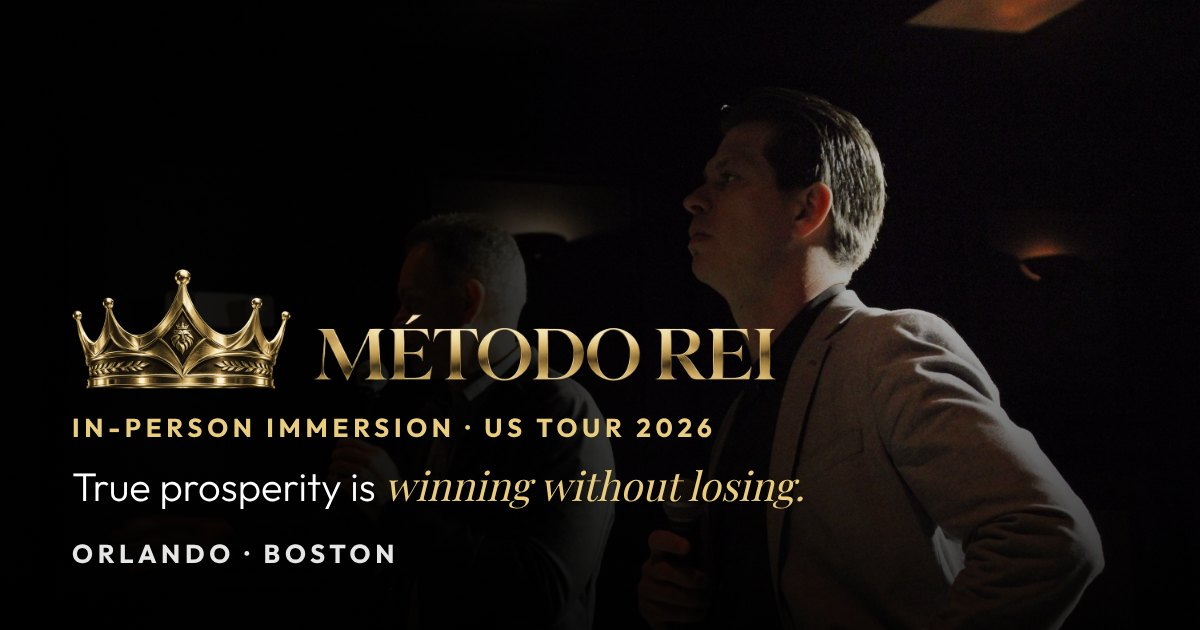
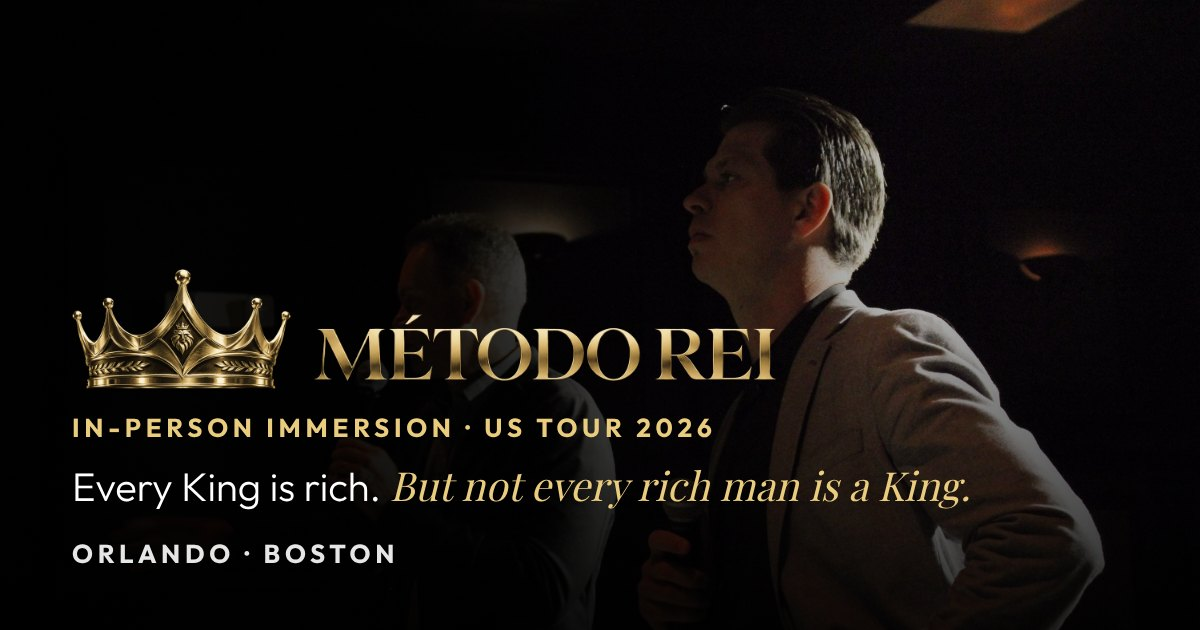
Remove "ganhar sem perder" do site (PT, EN, ES), do llms.txt e das imagens de compartilhamento
Claude-Session: https://claude.ai/code/session_01Uun9kg2pGjx4YM4RMmkCHm

Changed region(s): [[0.0617, 0.754, 0.8017, 0.8143]]

diff --git a/eventos/home-template.html b/eventos/home-template.html
@@ -165,7 +165,7 @@ src="https://www.facebook.com/tr?id=1643323880139413&ev=PageView&noscript=1"
     <div class="hero-in">
       <div class="kick">Imersão premium · Tour EUA {{ano}}</div>
       <h1 class="serif">Todo <span class="champ">Rei</span> é rico.<br><em>Mas nem todo<br>rico&nbsp;</em>é <span class="champ">Rei.</span></h1>
-      <p style="font-size: 20px; line-height: 1.6; font-weight: 300; max-width: 640px; margin: 28px auto 0; color: rgba(238,233,224,.86)">Uma imersão para homens e mulheres que desejam governar a própria vida, prosperar com propósito e construir um legado — <strong style="color: #fff; font-weight: 600">ganhar sem perder.</strong></p>
+      <p style="font-size: 20px; line-height: 1.6; font-weight: 300; max-width: 640px; margin: 28px auto 0; color: rgba(238,233,224,.86)">Uma imersão para homens e mulheres que desejam governar a própria vida, prosperar com propósito e construir um legado.</p>
       <div style="display: flex; gap: 12px; margin-top: 34px; flex-wrap: wrap; justify-content: center">
         <a class="btn btn-gold" href="#tour">Quero viver o Método REI</a>
         <button class="btn btn-line" type="button" id="videoOpen"><svg viewBox="0 0 24 24" width="16" height="16" fill="#E3C78A" aria-hidden="true"><path d="M7 4.5v15l12-7.5z"/></svg>Assistir ao vídeo</button>

diff --git a/es/index.html b/es/index.html
@@ -250,7 +250,7 @@ src="https://www.facebook.com/tr?id=1643323880139413&ev=PageView&noscript=1"
     <div class="hero-in">
       <div class="kick">Inmersión premium · Gira EE. UU. 2026</div>
       <h1 class="serif">Todo <span class="champ">Rey</span> es rico.<br><em>Pero no todo<br>rico&nbsp;</em>es <span class="champ">Rey.</span></h1>
-      <p style="font-size: 20px; line-height: 1.6; font-weight: 300; max-width: 640px; margin: 28px auto 0; color: rgba(238,233,224,.86)">Una inmersión para hombres y mujeres que desean gobernar su propia vida, prosperar con propósito y construir un legado — <strong style="color: #fff; font-weight: 600">ganar sin perder.</strong></p>
+      <p style="font-size: 20px; line-height: 1.6; font-weight: 300; max-width: 640px; margin: 28px auto 0; color: rgba(238,233,224,.86)">Una inmersión para hombres y mujeres que desean gobernar su propia vida, prosperar con propósito y construir un legado.</p>
       <div style="display: flex; gap: 12px; margin-top: 34px; flex-wrap: wrap; justify-content: center">
         <a class="btn btn-gold" href="#tour">Quiero vivir el Método REI</a>
         <button class="btn btn-line" type="button" id="videoOpen"><svg viewBox="0 0 24 24" width="16" height="16" fill="#E3C78A" aria-hidden="true"><path d="M7 4.5v15l12-7.5z"/></svg>Ver el video</button>

diff --git a/index.html b/index.html
@@ -250,7 +250,7 @@ src="https://www.facebook.com/tr?id=1643323880139413&ev=PageView&noscript=1"
     <div class="hero-in">
       <div class="kick">Imersão premium · Tour EUA 2026</div>
       <h1 class="serif">Todo <span class="champ">Rei</span> é rico.<br><em>Mas nem todo<br>rico&nbsp;</em>é <span class="champ">Rei.</span></h1>
-      <p style="font-size: 20px; line-height: 1.6; font-weight: 300; max-width: 640px; margin: 28px auto 0; color: rgba(238,233,224,.86)">Uma imersão para homens e mulheres que desejam governar a própria vida, prosperar com propósito e construir um legado — <strong style="color: #fff; font-weight: 600">ganhar sem perder.</strong></p>
+      <p style="font-size: 20px; line-height: 1.6; font-weight: 300; max-width: 640px; margin: 28px auto 0; color: rgba(238,233,224,.86)">Uma imersão para homens e mulheres que desejam governar a própria vida, prosperar com propósito e construir um legado.</p>
       <div style="display: flex; gap: 12px; margin-top: 34px; flex-wrap: wrap; justify-content: center">
         <a class="btn btn-gold" href="#tour">Quero viver o Método REI</a>
         <button class="btn btn-line" type="button" id="videoOpen"><svg viewBox="0 0 24 24" width="16" height="16" fill="#E3C78A" aria-hidden="true"><path d="M7 4.5v15l12-7.5z"/></svg>Assistir ao vídeo</button>

diff --git a/en/index.html b/en/index.html
@@ -250,7 +250,7 @@ src="https://www.facebook.com/tr?id=1643323880139413&ev=PageView&noscript=1"
     <div class="hero-in">
       <div class="kick">Premium immersion · US Tour 2026</div>
       <h1 class="serif">Every <span class="champ">King</span> is rich.<br><em>But not every<br>rich man&nbsp;</em>is a <span class="champ">King.</span></h1>
-      <p style="font-size: 20px; line-height: 1.6; font-weight: 300; max-width: 640px; margin: 28px auto 0; color: rgba(238,233,224,.86)">An immersion for men and women who want to govern their own lives, prosper with purpose and build a legacy — <strong style="color: #fff; font-weight: 600">win without losing.</strong></p>
+      <p style="font-size: 20px; line-height: 1.6; font-weight: 300; max-width: 640px; margin: 28px auto 0; color: rgba(238,233,224,.86)">An immersion for men and women who want to govern their own lives, prosper with purpose and build a legacy.</p>
       <div style="display: flex; gap: 12px; margin-top: 34px; flex-wrap: wrap; justify-content: center">
         <a class="btn btn-gold" href="#tour">I want to live Método REI</a>
         <button class="btn btn-line" type="button" id="videoOpen"><svg viewBox="0 0 24 24" width="16" height="16" fill="#E3C78A" aria-hidden="true"><path d="M7 4.5v15l12-7.5z"/></svg>Watch the video</button>

diff --git a/es/miami.html b/es/miami.html
@@ -926,7 +926,7 @@ src="https://www.facebook.com/tr?id=1643323880139413&ev=PageView&noscript=1"
       <h1 class="serif">Método REI<br><span class="champ">Miami</span></h1>
       <p class="serif ev-date">Viernes y Sábado · 23 y 24 de octubre de 2026</p>
       <div class="ev-venue"><a href="https://www.google.com/maps/search/?api=1&amp;query=Lagoinha+Miami+Church+295+NE+59th+Terrace+Miami+FL+33137" target="_blank" rel="noopener">295 NE 59th Terrace, Miami, FL</a></div>
-      <p style="font-size: 19px; line-height: 1.6; font-weight: 300; max-width: 620px; margin: 24px auto 0; color: rgba(238,233,224,.86)">Una inmersión para quienes desean gobernar su propia vida, prosperar con propósito y construir un legado — <strong style="color: #fff; font-weight: 600">ganar sin perder.</strong></p>
+      <p style="font-size: 19px; line-height: 1.6; font-weight: 300; max-width: 620px; margin: 24px auto 0; color: rgba(238,233,224,.86)">Una inmersión para quienes desean gobernar su propia vida, prosperar con propósito y construir un legado.</p>
       <div class="ev-offer">Desde US$14</div>
       <div style="display: flex; gap: 12px; margin-top: 16px; flex-wrap: wrap; justify-content: center">
         <a class="btn btn-gold" href="#ingressos">Ver entradas</a>

diff --git a/miami.html b/miami.html
@@ -926,7 +926,7 @@ src="https://www.facebook.com/tr?id=1643323880139413&ev=PageView&noscript=1"
       <h1 class="serif">Método REI<br><span class="champ">Miami</span></h1>
       <p class="serif ev-date">Sexta e Sábado · 23 e 24 de Outubro, 2026</p>
       <div class="ev-venue"><a href="https://www.google.com/maps/search/?api=1&amp;query=Lagoinha+Miami+Church+295+NE+59th+Terrace+Miami+FL+33137" target="_blank" rel="noopener">295 NE 59th Terrace, Miami, FL</a></div>
-      <p style="font-size: 19px; line-height: 1.6; font-weight: 300; max-width: 620px; margin: 24px auto 0; color: rgba(238,233,224,.86)">Uma imersão para quem deseja governar a própria vida, prosperar com propósito e construir um legado — <strong style="color: #fff; font-weight: 600">ganhar sem perder.</strong></p>
+      <p style="font-size: 19px; line-height: 1.6; font-weight: 300; max-width: 620px; margin: 24px auto 0; color: rgba(238,233,224,.86)">Uma imersão para quem deseja governar a própria vida, prosperar com propósito e construir um legado.</p>
       <div class="ev-offer">A partir de US$14</div>
       <div style="display: flex; gap: 12px; margin-top: 16px; flex-wrap: wrap; justify-content: center">
         <a class="btn btn-gold" href="#ingressos">Ver ingressos</a>

diff --git a/es/orlando.html b/es/orlando.html
@@ -952,7 +952,7 @@ src="https://www.facebook.com/tr?id=1643323880139413&ev=PageView&noscript=1"
       <h1 class="serif">Método REI<br><span class="champ">Orlando</span></h1>
       <p class="serif ev-date">Sábado · 21 de noviembre de 2026</p>
       <div class="ev-venue"><a href="https://www.google.com/maps/search/?api=1&amp;query=17800+Bali+Blvd+Winter+Garden+FL+34787" target="_blank" rel="noopener">17800 Bali Blvd, Winter Garden, FL 34787</a></div>
-      <p style="font-size: 19px; line-height: 1.6; font-weight: 300; max-width: 620px; margin: 24px auto 0; color: rgba(238,233,224,.86)">Una inmersión para quienes desean gobernar su propia vida, prosperar con propósito y construir un legado — <strong style="color: #fff; font-weight: 600">ganar sin perder.</strong></p>
+      <p style="font-size: 19px; line-height: 1.6; font-weight: 300; max-width: 620px; margin: 24px auto 0; color: rgba(238,233,224,.86)">Una inmersión para quienes desean gobernar su propia vida, prosperar con propósito y construir un legado.</p>
       <div class="ev-offer">Desde US$60</div>
       <div style="display: flex; gap: 12px; margin-top: 16px; flex-wrap: wrap; justify-content: center">
         <a class="btn btn-gold" href="#ingressos">Ver entradas</a>

diff --git a/en/miami.html b/en/miami.html
@@ -926,7 +926,7 @@ src="https://www.facebook.com/tr?id=1643323880139413&ev=PageView&noscript=1"
       <h1 class="serif">Método REI<br><span class="champ">Miami</span></h1>
       <p class="serif ev-date">Friday & Saturday · October 23–24, 2026</p>
       <div class="ev-venue"><a href="https://www.google.com/maps/search/?api=1&amp;query=Lagoinha+Miami+Church+295+NE+59th+Terrace+Miami+FL+33137" target="_blank" rel="noopener">295 NE 59th Terrace, Miami, FL</a></div>
-      <p style="font-size: 19px; line-height: 1.6; font-weight: 300; max-width: 620px; margin: 24px auto 0; color: rgba(238,233,224,.86)">An immersion for those who want to govern their own lives, prosper with purpose and build a legacy — <strong style="color: #fff; font-weight: 600">win without losing.</strong></p>
+      <p style="font-size: 19px; line-height: 1.6; font-weight: 300; max-width: 620px; margin: 24px auto 0; color: rgba(238,233,224,.86)">An immersion for those who want to govern their own lives, prosper with purpose and build a legacy.</p>
       <div class="ev-offer">From US$14</div>
       <div style="display: flex; gap: 12px; margin-top: 16px; flex-wrap: wrap; justify-content: center">
         <a class="btn btn-gold" href="#ingressos">See tickets</a>

diff --git a/orlando.html b/orlando.html
@@ -952,7 +952,7 @@ src="https://www.facebook.com/tr?id=1643323880139413&ev=PageView&noscript=1"
       <h1 class="serif">Método REI<br><span class="champ">Orlando</span></h1>
       <p class="serif ev-date">Sábado · 21 de Novembro, 2026</p>
       <div class="ev-venue"><a href="https://www.google.com/maps/search/?api=1&amp;query=17800+Bali+Blvd+Winter+Garden+FL+34787" target="_blank" rel="noopener">17800 Bali Blvd, Winter Garden, FL 34787</a></div>
-      <p style="font-size: 19px; line-height: 1.6; font-weight: 300; max-width: 620px; margin: 24px auto 0; color: rgba(238,233,224,.86)">Uma imersão para quem deseja governar a própria vida, prosperar com propósito e construir um legado — <strong style="color: #fff; font-weight: 600">ganhar sem perder.</strong></p>
+      <p style="font-size: 19px; line-height: 1.6; font-weight: 300; max-width: 620px; margin: 24px auto 0; color: rgba(238,233,224,.86)">Uma imersão para quem deseja governar a própria vida, prosperar com propósito e construir um legado.</p>
       <div class="ev-offer">A partir de US$60</div>
       <div style="display: flex; gap: 12px; margin-top: 16px; flex-wrap: wrap; justify-content: center">
         <a class="btn btn-gold" href="#ingressos">Ver ingressos</a>

diff --git a/en/orlando.html b/en/orlando.html
@@ -952,7 +952,7 @@ src="https://www.facebook.com/tr?id=1643323880139413&ev=PageView&noscript=1"
       <h1 class="serif">Método REI<br><span class="champ">Orlando</span></h1>
       <p class="serif ev-date">Saturday · November 21, 2026</p>
       <div class="ev-venue"><a href="https://www.google.com/maps/search/?api=1&amp;query=17800+Bali+Blvd+Winter+Garden+FL+34787" target="_blank" rel="noopener">17800 Bali Blvd, Winter Garden, FL 34787</a></div>
-      <p style="font-size: 19px; line-height: 1.6; font-weight: 300; max-width: 620px; margin: 24px auto 0; color: rgba(238,233,224,.86)">An immersion for those who want to govern their own lives, prosper with purpose and build a legacy — <strong style="color: #fff; font-weight: 600">win without losing.</strong></p>
+      <p style="font-size: 19px; line-height: 1.6; font-weight: 300; max-width: 620px; margin: 24px auto 0; color: rgba(238,233,224,.86)">An immersion for those who want to govern their own lives, prosper with purpose and build a legacy.</p>
       <div class="ev-offer">From US$60</div>
       <div style="display: flex; gap: 12px; margin-top: 16px; flex-wrap: wrap; justify-content: center">
         <a class="btn btn-gold" href="#ingressos">See tickets</a>

diff --git a/es/boston.html b/es/boston.html
@@ -930,7 +930,7 @@ src="https://www.facebook.com/tr?id=1643323880139413&ev=PageView&noscript=1"
       <h1 class="serif">Método REI<br><span class="champ">Boston</span></h1>
       <p class="serif ev-date">Viernes y Sábado · 4 y 5 de diciembre de 2026</p>
       <div class="ev-venue">Boston, MA · Lugar por confirmar</div>
-      <p style="font-size: 19px; line-height: 1.6; font-weight: 300; max-width: 620px; margin: 24px auto 0; color: rgba(238,233,224,.86)">Una inmersión para quienes desean gobernar su propia vida, prosperar con propósito y construir un legado — <strong style="color: #fff; font-weight: 600">ganar sin perder.</strong></p>
+      <p style="font-size: 19px; line-height: 1.6; font-weight: 300; max-width: 620px; margin: 24px auto 0; color: rgba(238,233,224,.86)">Una inmersión para quienes desean gobernar su propia vida, prosperar con propósito y construir un legado.</p>
       <div class="ev-offer">Desde US$14</div>
       <div style="display: flex; gap: 12px; margin-top: 16px; flex-wrap: wrap; justify-content: center">
         <a class="btn btn-gold" href="#ingressos">Ver entradas</a>

diff --git a/boston.html b/boston.html
@@ -930,7 +930,7 @@ src="https://www.facebook.com/tr?id=1643323880139413&ev=PageView&noscript=1"
       <h1 class="serif">Método REI<br><span class="champ">Boston</span></h1>
       <p class="serif ev-date">Sexta e Sábado · 4 e 5 de Dezembro, 2026</p>
       <div class="ev-venue">Boston, MA · Local a definir</div>
-      <p style="font-size: 19px; line-height: 1.6; font-weight: 300; max-width: 620px; margin: 24px auto 0; color: rgba(238,233,224,.86)">Uma imersão para quem deseja governar a própria vida, prosperar com propósito e construir um legado — <strong style="color: #fff; font-weight: 600">ganhar sem perder.</strong></p>
+      <p style="font-size: 19px; line-height: 1.6; font-weight: 300; max-width: 620px; margin: 24px auto 0; color: rgba(238,233,224,.86)">Uma imersão para quem deseja governar a própria vida, prosperar com propósito e construir um legado.</p>
       <div class="ev-offer">A partir de US$14</div>
       <div style="display: flex; gap: 12px; margin-top: 16px; flex-wrap: wrap; justify-content: center">
         <a class="btn btn-gold" href="#ingressos">Ver ingressos</a>
